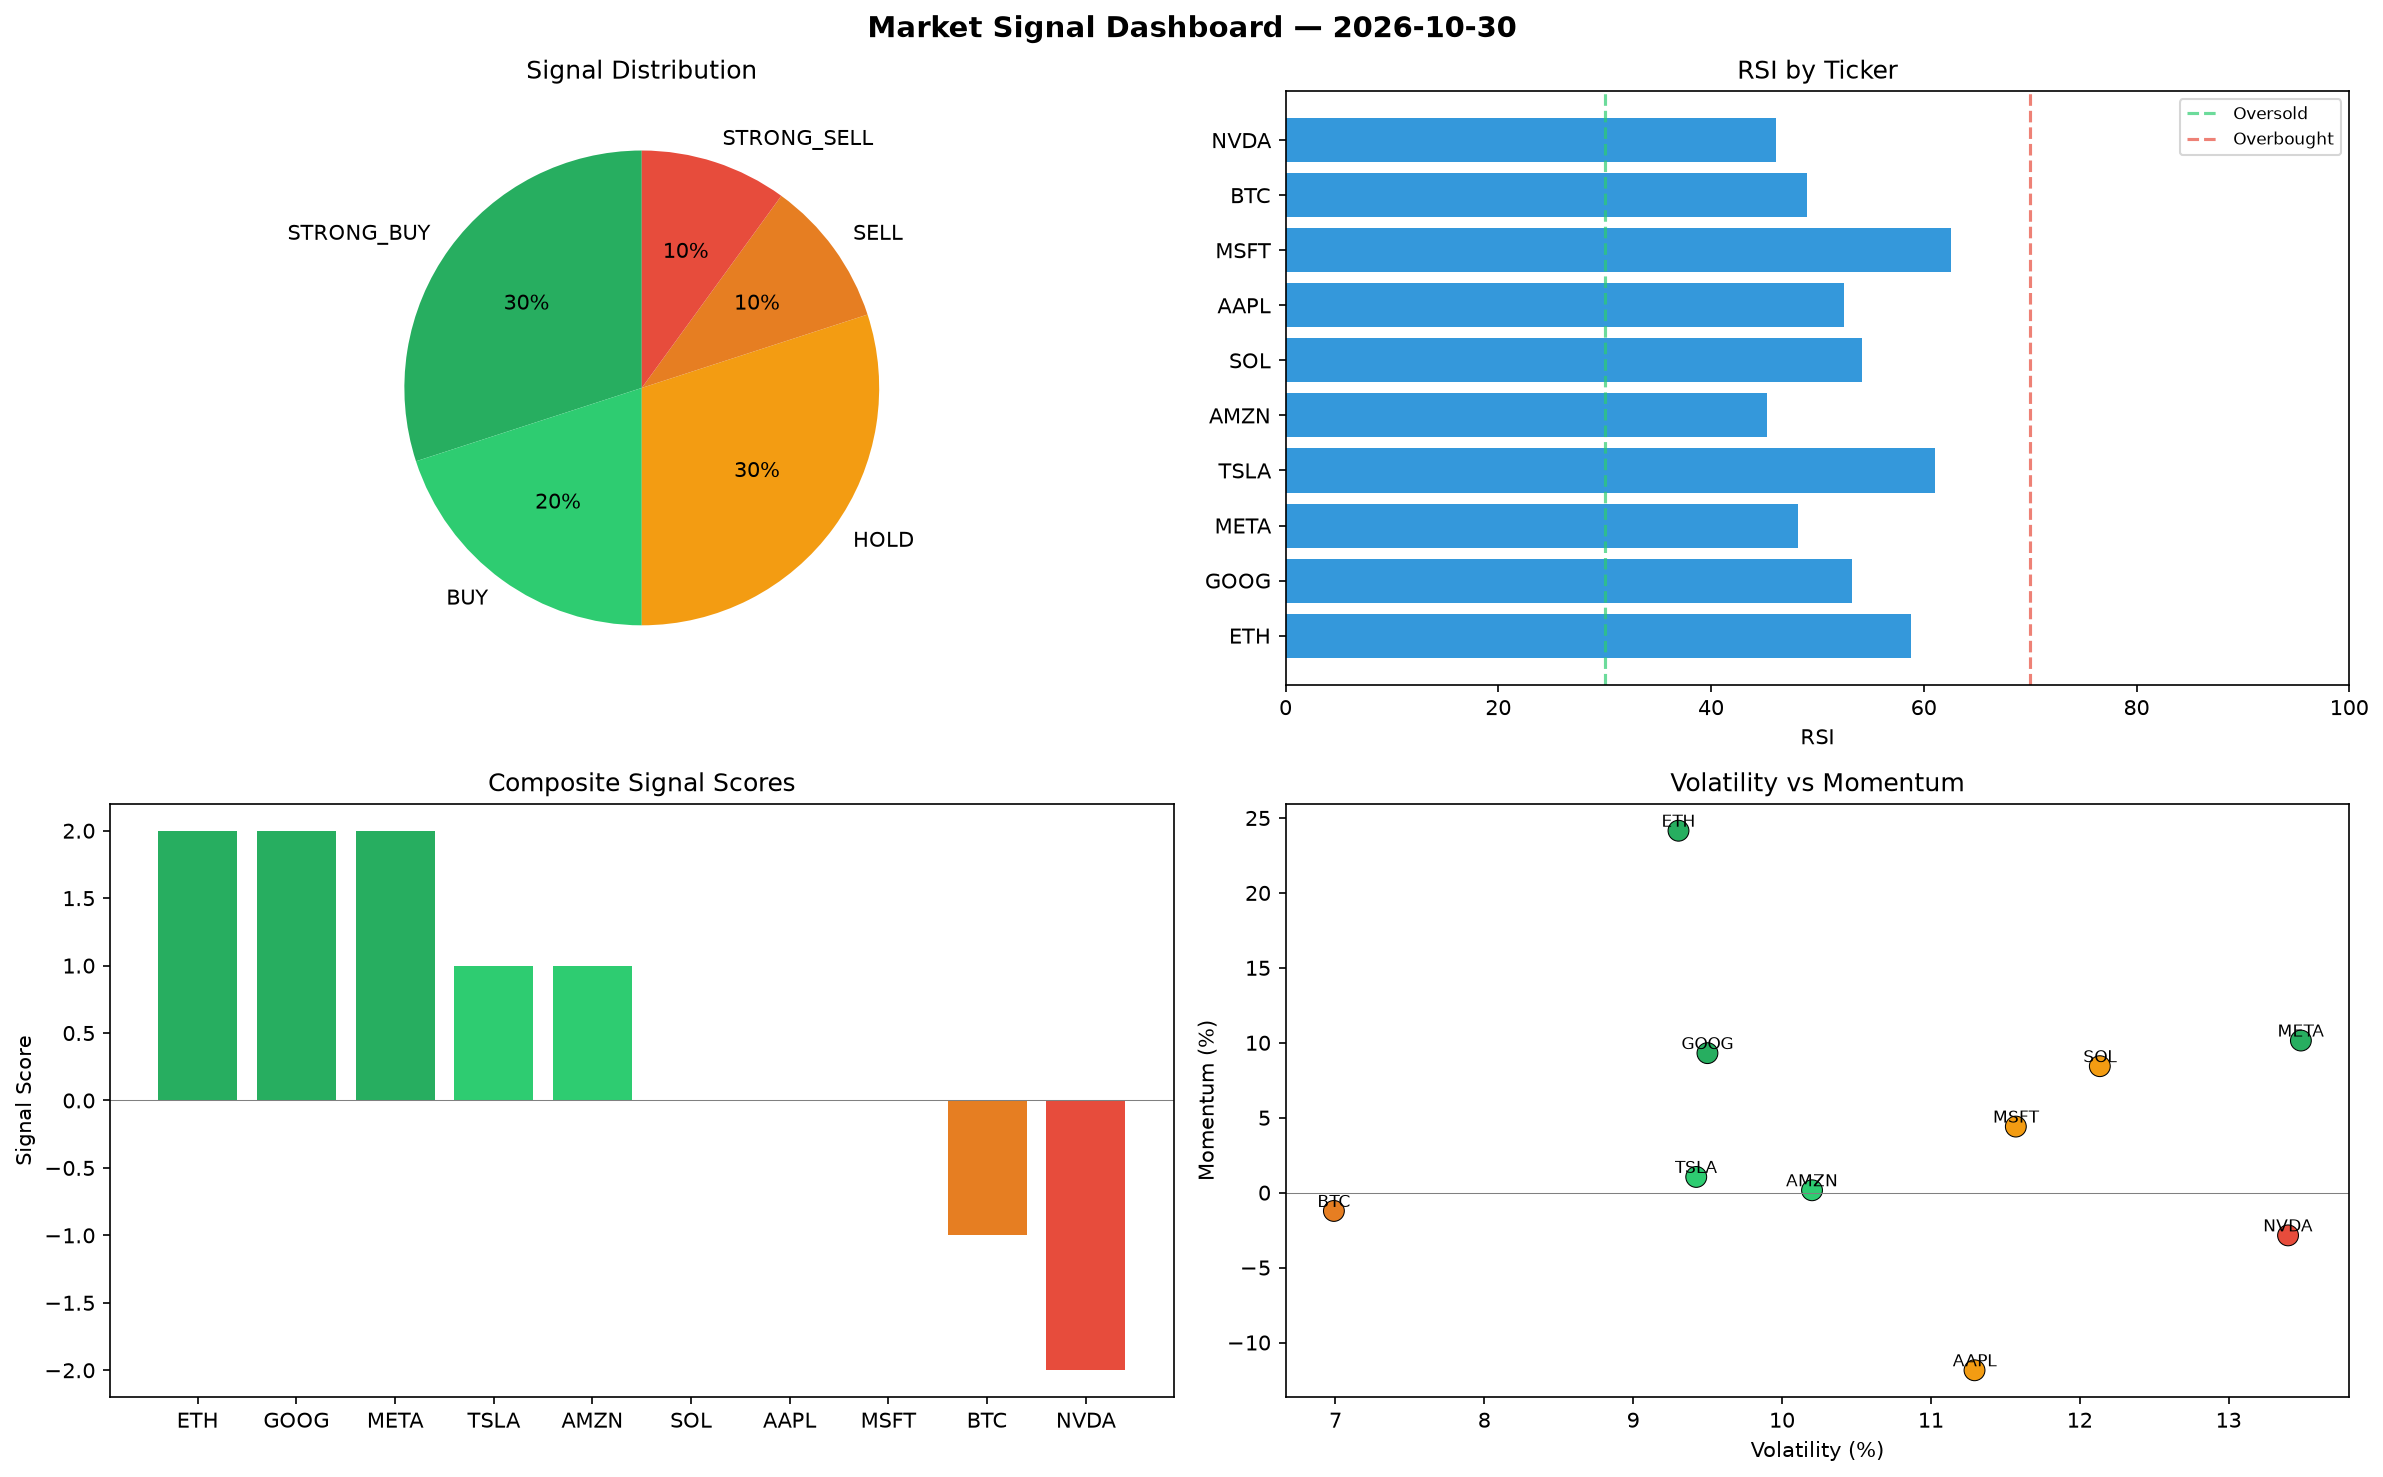
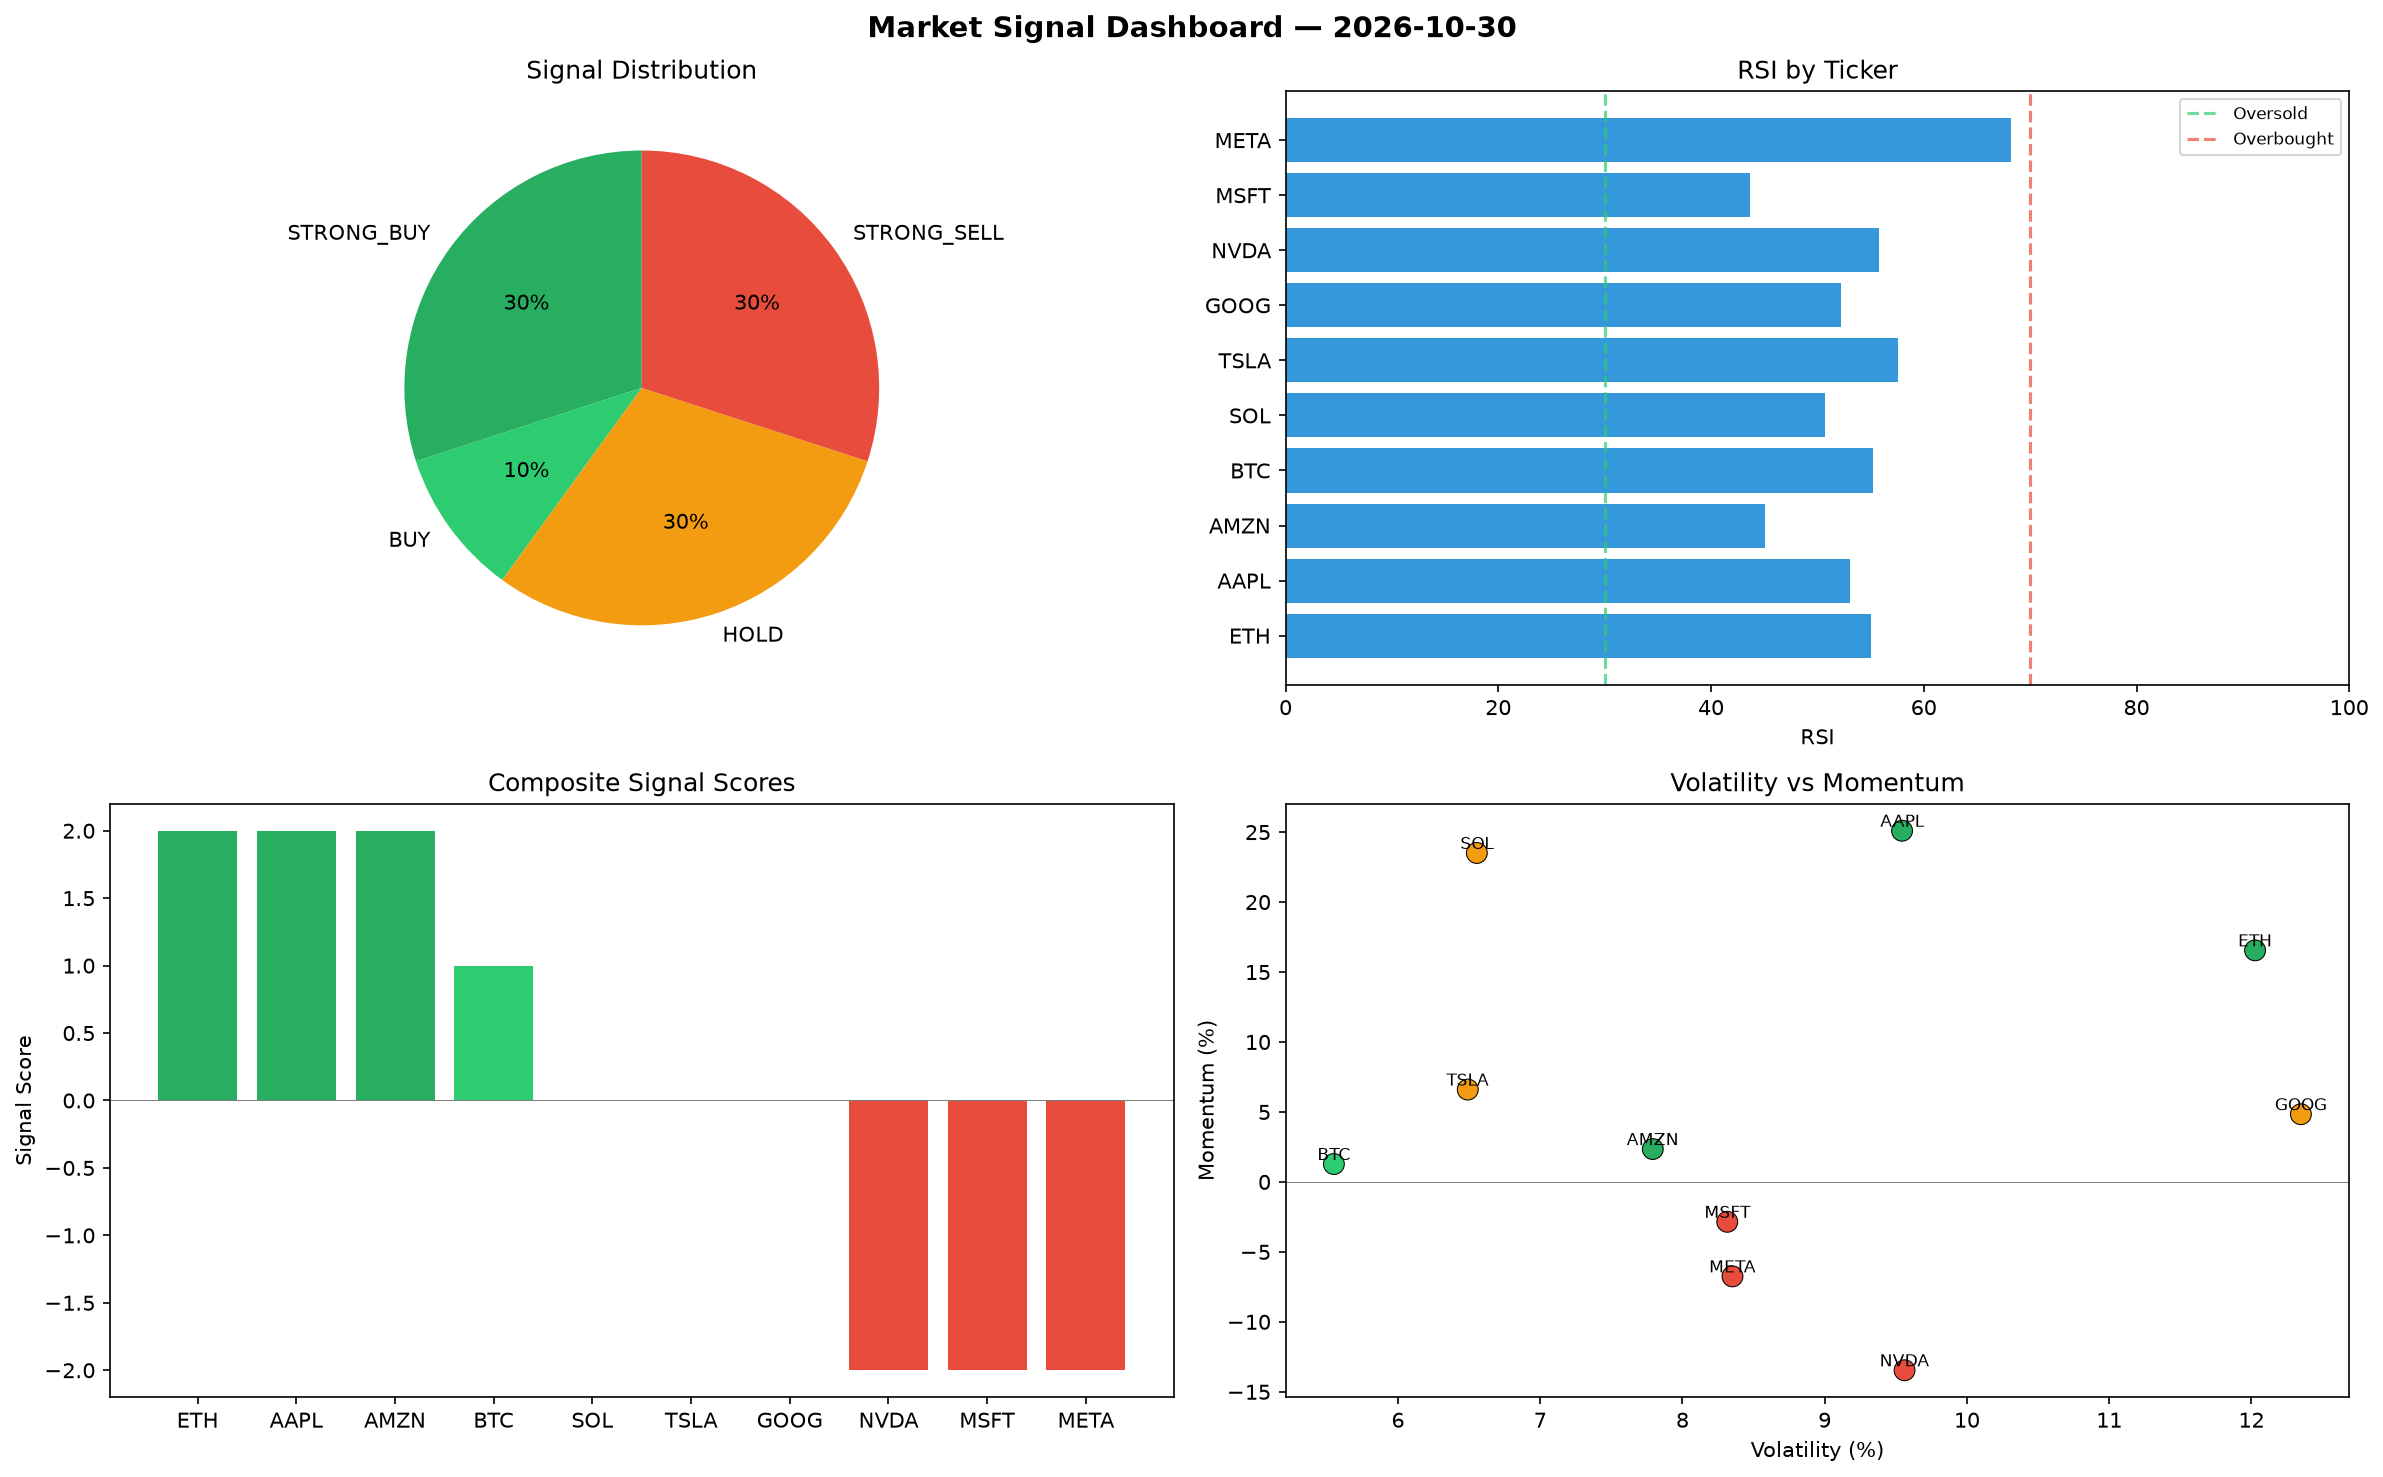
automated-bots: market signals 2026-10-30T15:09

diff --git a/logs/2026-10-30.md b/logs/2026-10-30.md
@@ -1,6 +1,6 @@
 # Market Signal Report — 2026-10-30
 
-**Run ID:** `aff5abf771` | **Buy:** 5 | **Sell:** 2 | **Hold:** 3
+**Run ID:** `1c78726eb0` | **Buy:** 4 | **Sell:** 3 | **Hold:** 3
 
 ![Dashboard](2026-10-30_dashboard.png)
 
@@ -8,28 +8,28 @@
 
 | Ticker | Price | Signal | Score | RSI | Momentum | Confidence |
 |--------|-------|--------|-------|-----|----------|------------|
-| ETH | $2637.11 | **STRONG_BUY** | 2 | 58.81 | 0.2415 | 0.5 |
-| GOOG | $4079.76 | **STRONG_BUY** | 2 | 53.22 | 0.0931 | 0.5 |
-| META | $4009.26 | **STRONG_BUY** | 2 | 48.22 | 0.1015 | 0.5 |
-| TSLA | $4057.68 | **BUY** | 1 | 61.02 | 0.0105 | 0.25 |
-| AMZN | $3076.19 | **BUY** | 1 | 45.3 | 0.0016 | 0.25 |
-| SOL | $4776.08 | **HOLD** | 0 | 54.19 | 0.0844 | 0.0 |
-| AAPL | $4461.47 | **HOLD** | 0 | 52.46 | -0.1185 | 0.0 |
-| MSFT | $3587.62 | **HOLD** | 0 | 62.6 | 0.0441 | 0.0 |
-| BTC | $2470.3 | **SELL** | -1 | 49.01 | -0.0122 | 0.25 |
-| NVDA | $2231.77 | **STRONG_SELL** | -2 | 46.12 | -0.0285 | 0.5 |
+| ETH | $63.39 | **STRONG_BUY** | 2 | 55.07 | 0.1655 | 0.5 |
+| AAPL | $4658.76 | **STRONG_BUY** | 2 | 53.09 | 0.251 | 0.5 |
+| AMZN | $1162.95 | **STRONG_BUY** | 2 | 45.12 | 0.0235 | 0.5 |
+| BTC | $1977.13 | **BUY** | 1 | 55.22 | 0.0128 | 0.25 |
+| SOL | $2573.87 | **HOLD** | 0 | 50.74 | 0.2351 | 0.0 |
+| TSLA | $3058.72 | **HOLD** | 0 | 57.6 | 0.066 | 0.0 |
+| GOOG | $4135.06 | **HOLD** | 0 | 52.2 | 0.0484 | 0.0 |
+| NVDA | $3905.16 | **STRONG_SELL** | -2 | 55.76 | -0.1346 | 0.5 |
+| MSFT | $1926.44 | **STRONG_SELL** | -2 | 43.62 | -0.0285 | 0.5 |
+| META | $153.57 | **STRONG_SELL** | -2 | 68.22 | -0.0675 | 0.5 |
 
 ## Delta vs Yesterday
 
 | Ticker | Today | Yesterday | Price Change | Signal Changed |
 |--------|-------|-----------|-------------|----------------|
-| ETH | STRONG_BUY | STRONG_SELL | 📈 11.88% | ⚠ YES |
-| GOOG | STRONG_BUY | BUY | 📈 6.44% | ⚠ YES |
-| META | STRONG_BUY | STRONG_SELL | 📈 357.38% | ⚠ YES |
-| TSLA | BUY | STRONG_SELL | 📈 94.31% | ⚠ YES |
-| AMZN | BUY | STRONG_BUY | 📈 208.65% | ⚠ YES |
-| SOL | HOLD | BUY | 📈 10.38% | ⚠ YES |
-| AAPL | HOLD | SELL | 📈 32.38% | ⚠ YES |
-| MSFT | HOLD | STRONG_BUY | 📈 18.99% | ⚠ YES |
-| BTC | SELL | STRONG_BUY | 📈 100.12% | ⚠ YES |
-| NVDA | STRONG_SELL | STRONG_SELL | 📉 -39.47% | — |
+| ETH | STRONG_BUY | STRONG_SELL | 📉 -97.31% | ⚠ YES |
+| AAPL | STRONG_BUY | SELL | 📈 38.23% | ⚠ YES |
+| AMZN | STRONG_BUY | STRONG_BUY | 📈 16.68% | — |
+| BTC | BUY | STRONG_BUY | 📈 60.16% | ⚠ YES |
+| SOL | HOLD | BUY | 📉 -40.51% | ⚠ YES |
+| TSLA | HOLD | STRONG_SELL | 📈 46.47% | ⚠ YES |
+| GOOG | HOLD | BUY | 📈 7.88% | ⚠ YES |
+| NVDA | STRONG_SELL | STRONG_SELL | 📈 5.91% | — |
+| MSFT | STRONG_SELL | STRONG_BUY | 📉 -36.11% | ⚠ YES |
+| META | STRONG_SELL | STRONG_SELL | 📉 -82.48% | — |
